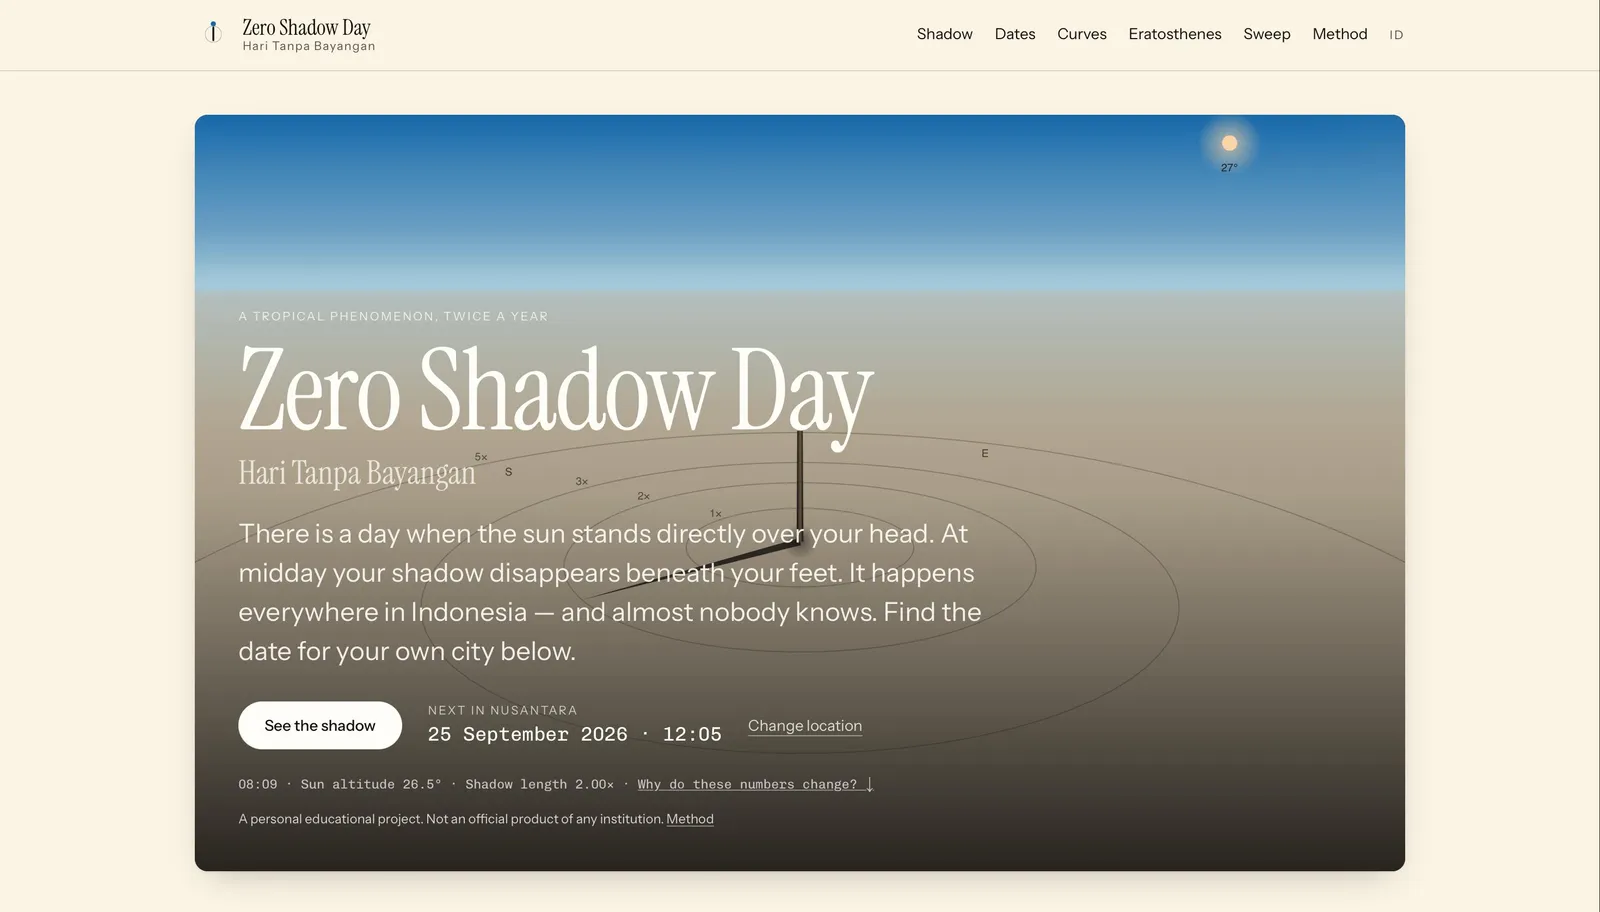
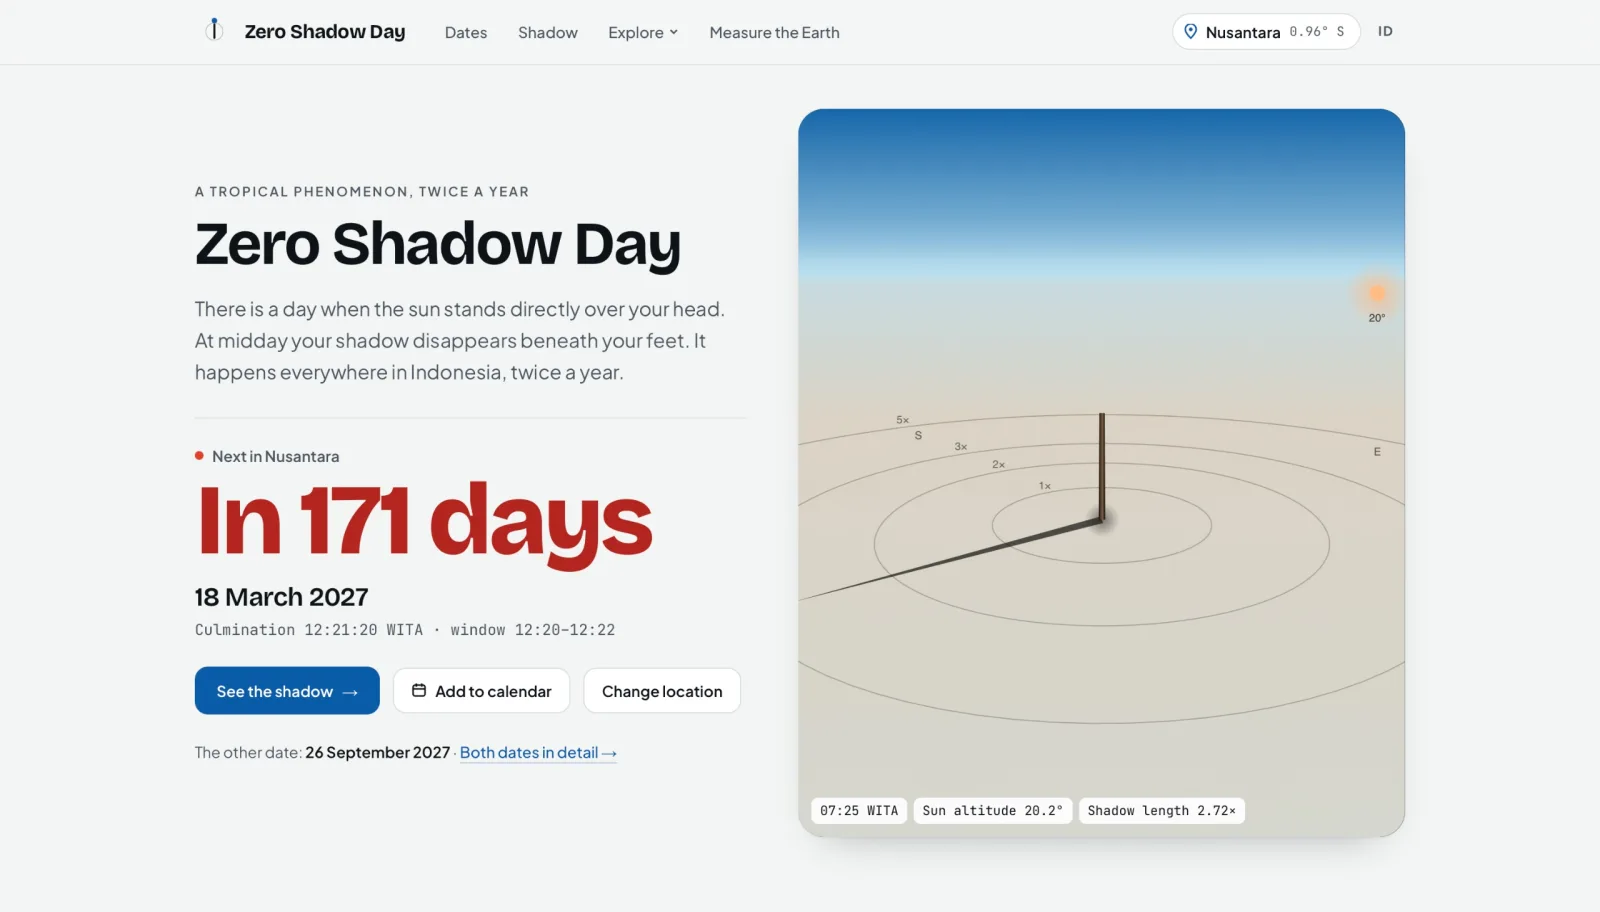
content(zero-shadow-day): refresh screenshots, add to featured work
Replaced the hero and all case-study screenshots with new captures
(9 screenshots now, up from 7), converted to WebP within the repo's
asset budget. Marked the project featured and appended it to
FEATURED_ORDER in lib/content.ts.

Bumped getFeaturedProjects(11) to getFeaturedProjects(12) in
app/[locale]/page.tsx to match the new featured count, so the home
strip keeps showing every featured project rather than truncating.

diff --git a/app/[locale]/page.tsx b/app/[locale]/page.tsx
@@ -135,7 +135,7 @@ export default async function HomePage({
   setRequestLocale(locale);
   // Matches the count of projects actually marked featured (see FEATURED_ORDER
   // in lib/content.ts) so the strip never silently drops one off the end.
-  const featuredProjects = getFeaturedProjects(11);
+  const featuredProjects = getFeaturedProjects(12);
   const stats = getPortfolioStats();
 
   return (

diff --git a/lib/content.ts b/lib/content.ts
@@ -135,6 +135,7 @@ const FEATURED_ORDER = [
   'anatomi-rupiah', // indep · explainer
   'quranlytics', // indep · data
   'gempa-watch', // indep · data
+  'zero-shadow-day', // indep · explainer
 ];
 
 export function getFeaturedProjects(limit = 3): ProjectMeta[] {
